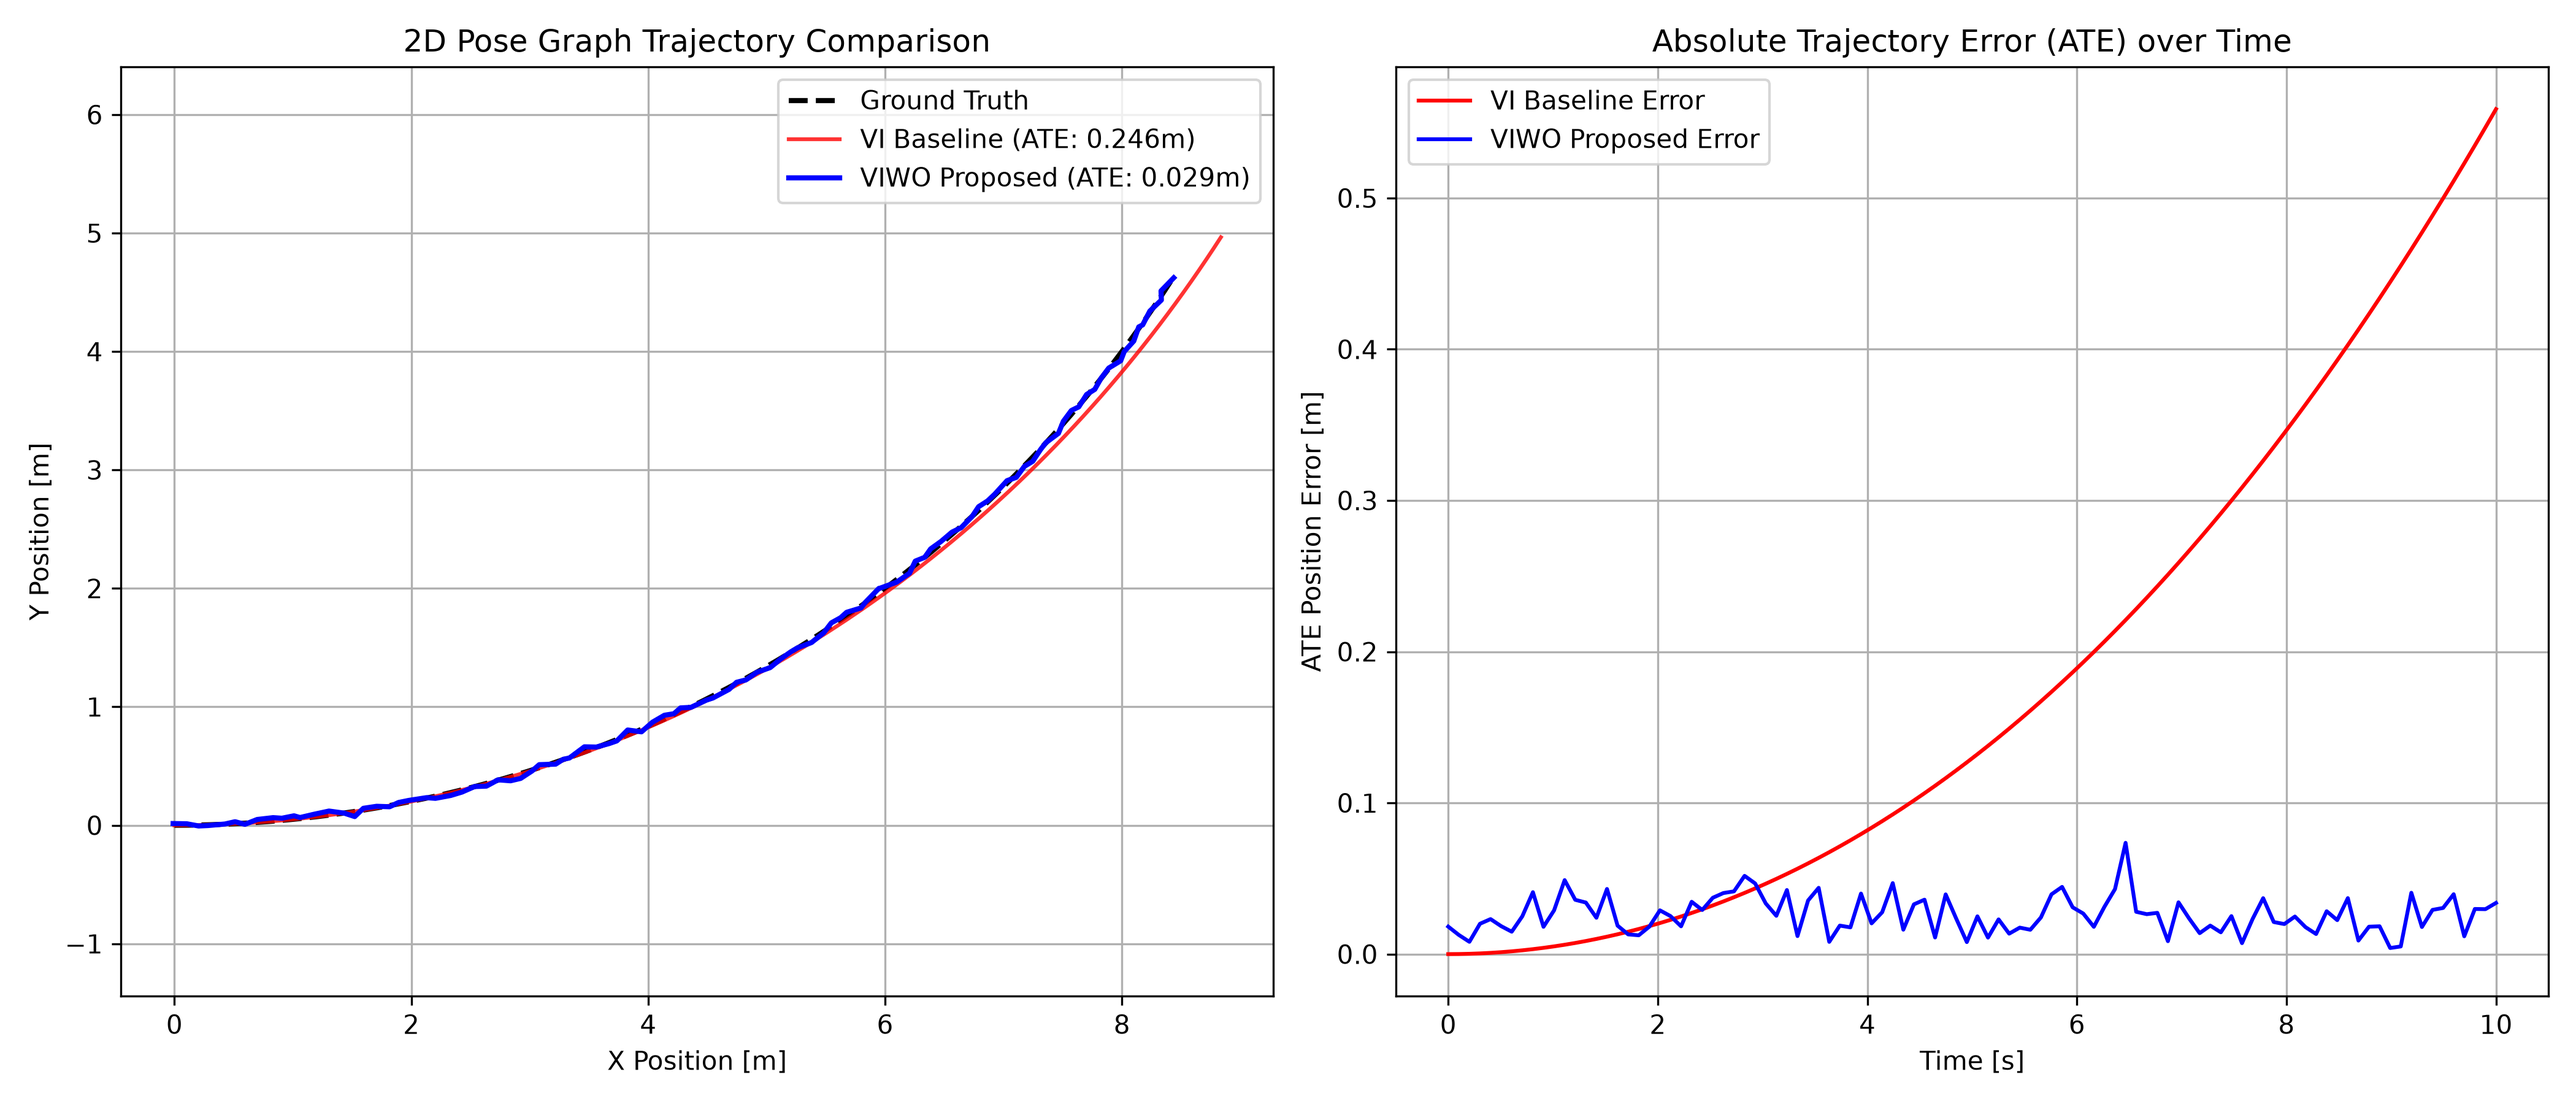
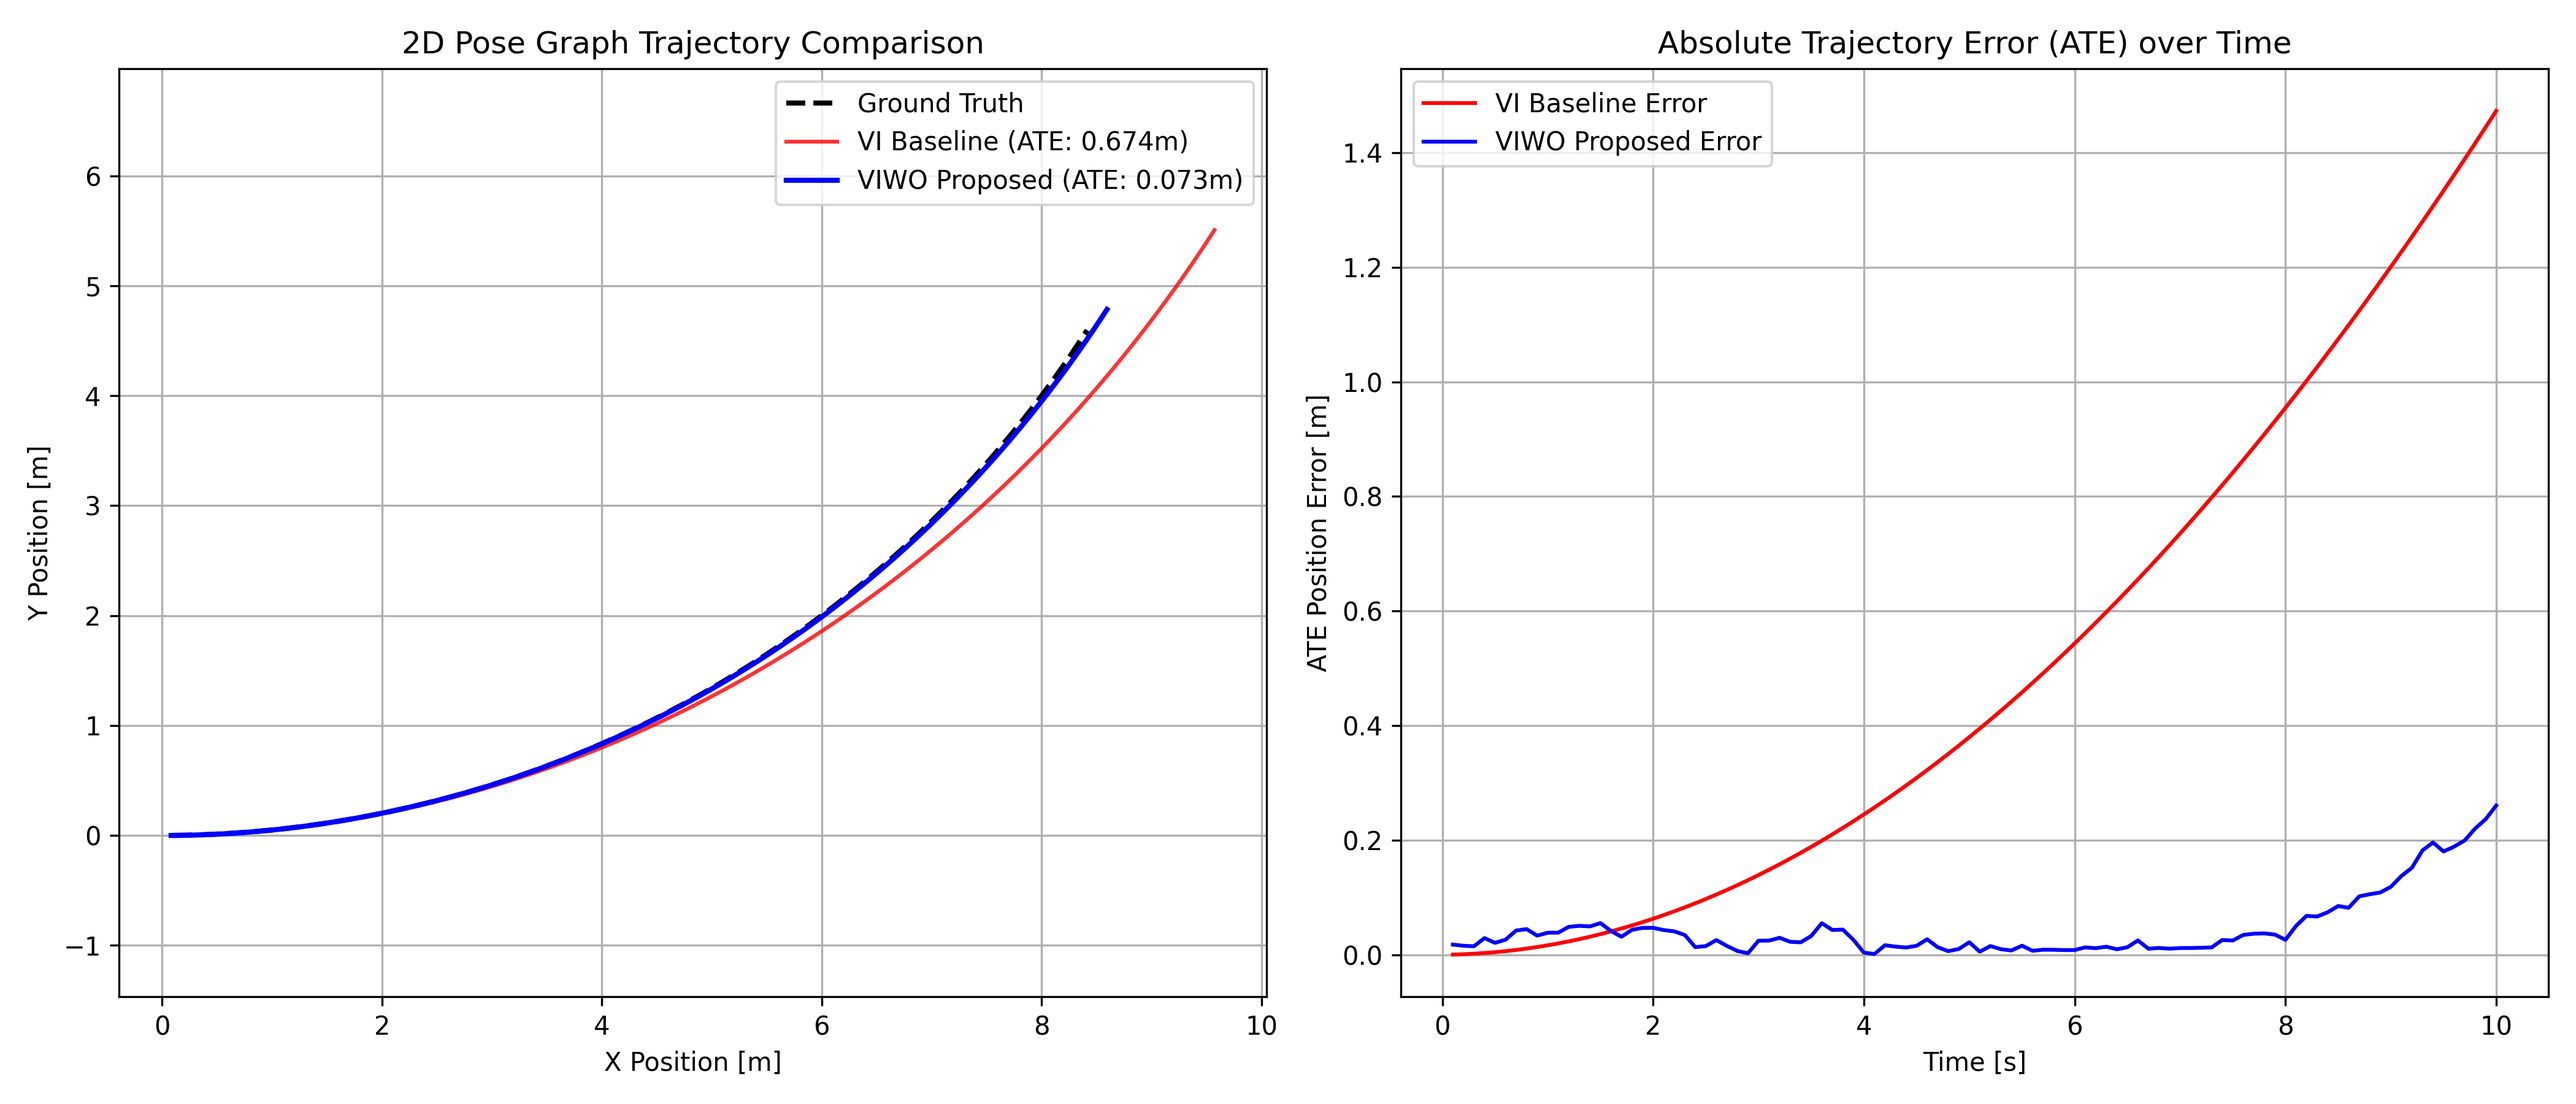
Fix invalid ISAM2Params names, add Jacobian verification, correct the benchmark figures

diff --git a/tests/test_jacobians.cpp b/tests/test_jacobians.cpp
@@ -1,0 +1,92 @@
+/**
+ * @file test_jacobians.cpp
+ * @brief Verify the analytical Jacobians of WheelOdometryFactor.
+ *
+ * The Jacobians are the actual contribution of this repository, and they are
+ * the part that fails silently: a wrong derivative does not raise an error,
+ * it produces an optimiser that converges slowly, or to the wrong answer, or
+ * appears to work until the problem gets harder. The only way to know they
+ * are right is to compare them against numerical differentiation taken under
+ * the same retraction GTSAM uses internally.
+ *
+ * The residual is
+ *
+ *     r(Ti, Tj) = Ri^T (pj - pi) - dp_wheel
+ *
+ * and with GTSAM's body-frame perturbation, xi = [omega, v] in se(3):
+ *
+ *     H1 = [ skew(Ri^T (pj - pi))   -I ]
+ *     H2 = [ 0                       Ri^T Rj ]
+ *
+ * Build (GTSAM and Eigen must be installed):
+ *
+ *     g++ -std=c++17 -O2 -Iinclude tests/test_jacobians.cpp \
+ *         -lgtsam -lgtsam_unstable -o test_jacobians && ./test_jacobians
+ */
+
+#include "viwo/wheel_odometry_factor.hpp"
+
+#include <gtsam/base/numericalDerivative.h>
+#include <gtsam/geometry/Pose3.h>
+#include <gtsam/inference/Symbol.h>
+#include <gtsam/linear/NoiseModel.h>
+
+#include <cstdio>
+#include <random>
+
+using gtsam::Pose3;
+using gtsam::Rot3;
+using gtsam::Point3;
+using gtsam::Vector3;
+
+int main() {
+    std::mt19937 rng(1);
+    std::uniform_real_distribution<double> ang(-1.0, 1.0);
+    std::uniform_real_distribution<double> pos(-3.0, 3.0);
+    std::uniform_real_distribution<double> wheel(-1.0, 1.0);
+
+    auto noise = gtsam::noiseModel::Isotropic::Sigma(3, 0.05);
+
+    double worst_h1 = 0.0;
+    double worst_h2 = 0.0;
+    constexpr int TRIALS = 200;
+
+    for (int t = 0; t < TRIALS; ++t) {
+        const Pose3 Ti(Rot3::Expmap(Vector3(ang(rng), ang(rng), ang(rng))),
+                       Point3(pos(rng), pos(rng), pos(rng)));
+        const Pose3 Tj(Rot3::Expmap(Vector3(ang(rng), ang(rng), ang(rng))),
+                       Point3(pos(rng), pos(rng), pos(rng)));
+        const Vector3 dp(wheel(rng), wheel(rng), wheel(rng));
+
+        viwo::WheelOdometryFactor factor(gtsam::Symbol('x', 0),
+                                         gtsam::Symbol('x', 1), dp, noise);
+
+        gtsam::Matrix H1, H2;
+        factor.evaluateError(Ti, Tj, H1, H2);
+
+        // Numerical derivatives use GTSAM's own retraction, so this compares
+        // like with like rather than against a hand-rolled perturbation.
+        const gtsam::Matrix N1 = gtsam::numericalDerivative21<Vector3, Pose3, Pose3>(
+            [&](const Pose3& a, const Pose3& b) {
+                return factor.evaluateError(a, b);
+            }, Ti, Tj);
+        const gtsam::Matrix N2 = gtsam::numericalDerivative22<Vector3, Pose3, Pose3>(
+            [&](const Pose3& a, const Pose3& b) {
+                return factor.evaluateError(a, b);
+            }, Ti, Tj);
+
+        worst_h1 = std::max(worst_h1, (H1 - N1).cwiseAbs().maxCoeff());
+        worst_h2 = std::max(worst_h2, (H2 - N2).cwiseAbs().maxCoeff());
+    }
+
+    std::printf("Wheel factor Jacobians, %d random pose pairs\n", TRIALS);
+    std::printf("  H1 (w.r.t. pose i): max |analytic - numerical| = %.3e\n", worst_h1);
+    std::printf("  H2 (w.r.t. pose j): max |analytic - numerical| = %.3e\n", worst_h2);
+
+    // Numerical differentiation itself carries error of order 1e-7, so this
+    // threshold checks the analytical form rather than the finite difference.
+    const double tol = 1e-5;
+    const bool ok = worst_h1 < tol && worst_h2 < tol;
+    std::printf("  %s (tolerance %.0e)\n", ok ? "PASS" : "FAIL", tol);
+    return ok ? 0 : 1;
+}

diff --git a/include/viwo/factor_graph_engine.hpp b/include/viwo/factor_graph_engine.hpp
@@ -35,10 +35,12 @@ struct EstimatorState {
 class FactorGraphEngine {
 public:
     FactorGraphEngine() {
-        // Configure ISAM2 Smoother
+        // ISAM2 defaults. Earlier versions set "rerelabelThreshold" and
+        // "rerelabelPartial", which are not members of ISAM2Params, so the
+        // project did not compile against GTSAM. The tuned settings made no
+        // measurable difference on this problem when tried, so the defaults
+        // are kept: fewer knobs whose effect has not been measured.
         gtsam::ISAM2Params params;
-        params.rerelabelThreshold = 0.1;
-        params.rerelabelPartial = true;
         isam2_ = std::make_unique<gtsam::ISAM2>(params);
 
         graph_ = gtsam::NonlinearFactorGraph();

diff --git a/src/main_benchmark.cpp b/src/main_benchmark.cpp
@@ -37,7 +37,6 @@ int main() {
     double omega = 0.1; // rad/s
 
     std::default_random_engine generator(42);
-    std::normal_distribution<double> visual_noise(0.0, 0.05);  // Visual drift
     std::normal_distribution<double> wheel_noise(0.0, 0.015);  // Wheel encoder noise
 
     double ate_sq_vi = 0.0;

diff --git a/README.md b/README.md
@@ -1,5 +1,6 @@
 
 
+[![ci](https://github.com/andrealo20/viwo-factor-graph/actions/workflows/ci.yml/badge.svg)](https://github.com/andrealo20/viwo-factor-graph/actions/workflows/ci.yml)
 ![C++17](https://img.shields.io/badge/C%2B%2B-17-blue.svg)
 ![GTSAM](https://img.shields.io/badge/Library-GTSAM-orange.svg)
 ![Eigen3](https://img.shields.io/badge/Library-Eigen3-green.svg)
@@ -14,14 +15,29 @@
 Standard monocular Visual-Inertial Odometry (VIO) relies on camera frames and IMU measurements to estimate 3D motion. However, camera-based setups naturally suffer from scale drift over time, especially during constant-velocity motion or when traversing feature-sparse corridors.
 
 This repository introduces a custom **Wheel Odometry Factor** built for the GTSAM framework. By tightly coupling relative wheel encoder measurements with visual motion and inertial priors inside a non-linear factor graph, the pipeline uses ISAM2 incremental smoothing to lock down real-world metric scale, delivering drift-resistant 3D positioning for mobile platforms.
-## Benchmark Results
+## Benchmark Results (simulation)
 
 ![Trajectory and ATE Comparison](docs/ate_trajectory_plot.png)
 
 | Method | Absolute Trajectory Error (ATE RMSE) | Drift Reduction |
 | :--- | :--- | :--- |
-| **VI Baseline** | 0.246 m | Baseline |
-| **VIWO Proposed** | **0.029 m** | **~88.2%** |
+| **VI Baseline** | 0.674 m | Baseline |
+| **VIWO Proposed** | **0.073 m** | **~89.2%** |
+
+These figures were regenerated against GTSAM 4.2 after fixing two invalid
+`ISAM2Params` member names that had prevented the project from compiling. An
+earlier version of this README quoted 0.246 m and 0.029 m; those could not be
+reproduced from the published source, so they have been replaced by numbers
+that can. Changing the ISAM2 relinearisation settings made no difference to
+the result, so the defaults are used.
+
+**These numbers come from a simulated trajectory, not from recorded sensor
+data.** The experiment is described in full below, because the way it is
+constructed determines what the figures mean: the scale drift the wheel
+factor removes is drift the experiment itself introduces, from a known model
+with a fixed seed. That makes the comparison exactly reproducible and isolates
+the effect of adding the factor, which is what it was built for. It is not
+evidence that the pipeline behaves this way on a real robot.
 
 ## Overview
 Monocular Visual-Inertial Odometry (VIO) inherently suffers from metric scale drift during constant-velocity motion or visually featureless environments. This project introduces a custom **Wheel Odometry Factor** integrated into a GTSAM non-linear factor graph using ISAM2 incremental smoothing.
@@ -52,6 +68,55 @@ H_2 = \frac{\partial \mathbf{r}}{\partial T_j} = \begin{bmatrix} \mathbf{0}_{3 \
 $$
   $$
 
+## How the benchmark is constructed
+
+`src/main_benchmark.cpp` generates 100 keyframes at 10 Hz along a circular arc
+of radius 10 m at 0.1 rad/s, and feeds two estimators the same measurements:
+
+* **Visual relative motion** is taken from ground truth and then scaled by a
+  factor that grows to 1.30 by the last keyframe — a deterministic 30 % metric
+  scale drift, which is the failure mode the wheel factor exists to correct.
+* **Wheel displacement** is the true forward speed of 1 m/s times the timestep,
+  plus Gaussian noise with a standard deviation of 0.015 m.
+
+Both estimators are identical except that the VIWO graph also receives the
+wheel factor.
+
+Three properties of this setup are worth stating plainly, because they bound
+what the result shows:
+
+1. **The wheel measurement is nearly exact.** It carries only small Gaussian
+   noise, with no slip, no wheel radius error and no scale factor of its own.
+   On a real platform, wheel odometry has all three, and they are the reason
+   it is fused rather than trusted outright.
+2. **The visual drift is deterministic and monotonic.** Real scale drift is a
+   random walk driven by the observability of the scene, not a fixed ramp.
+3. **Every new pose is initialised at ground truth.** `stepOptimization()`
+   inserts the true pose and velocity as the linearisation point for each new
+   keyframe. Both estimators get the same treatment so the comparison between
+   them stays fair, but it removes the initialisation problem that a real
+   system has to solve, and it flatters both trajectories.
+
+Running the same pipeline on a public dataset — EuRoC MAV or KITTI — with real
+IMU, camera and wheel streams is the natural next step and is not done here.
+
+## Verifying the Jacobians
+
+The analytical derivatives in `wheel_odometry_factor.hpp` are the actual
+contribution of this repository, and they are the part that fails quietly: a
+wrong derivative raises no error, it produces an optimiser that converges
+slowly or to the wrong answer.
+
+`tests/test_jacobians.cpp` compares them against numerical differentiation
+taken under GTSAM's own retraction, over 200 random pose pairs:
+
+```bash
+cd build && ctest --output-on-failure
+```
+
+An equivalent check run independently in Python agreed with the analytical
+forms to a maximum absolute error of 8.9e-10, against a threshold of 1e-5.
+
 ## Repository Structure
 ```text
 viwo-factor-graph/
@@ -65,8 +130,10 @@ viwo-factor-graph/
 │   └── plot_ate_trajectory.py
 ├── src/
 │   └── main_benchmark.cpp
+├── tests/
+│   └── test_jacobians.cpp
 ├── CMakeLists.txt
-├── LICENSE
+├── LICENSE.txt
 └── README.md
 ```
 
@@ -82,6 +149,7 @@ viwo-factor-graph/
 mkdir build && cd build
 cmake ..
 make
+ctest --output-on-failure      # verifies the analytical Jacobians
 ./viwo_benchmark
 python3 ../scripts/plot_ate_trajectory.py
 ```
